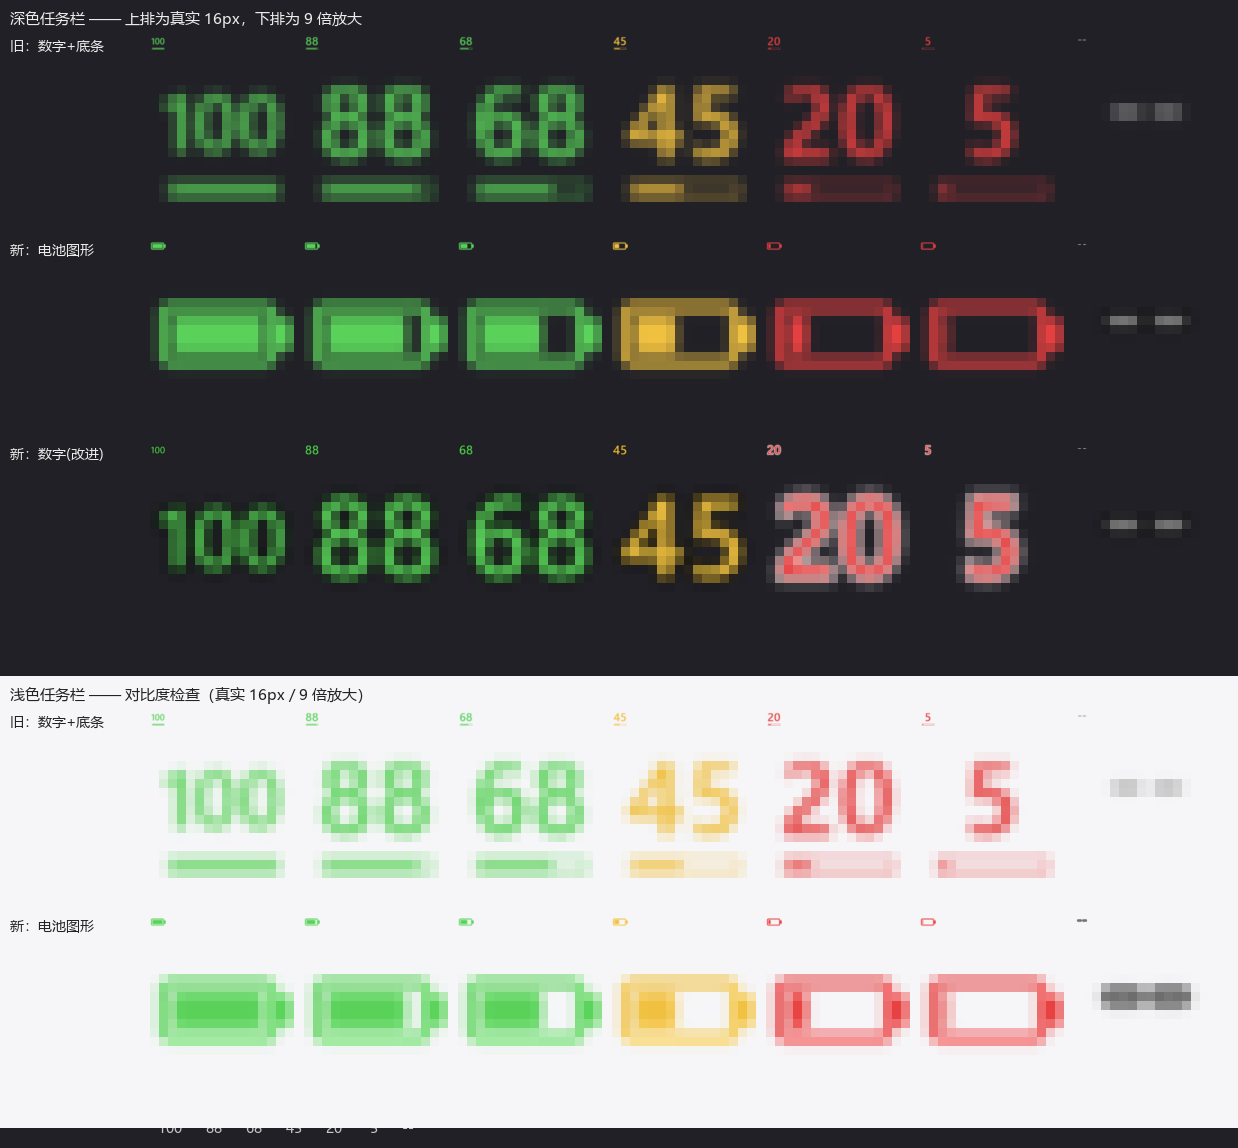
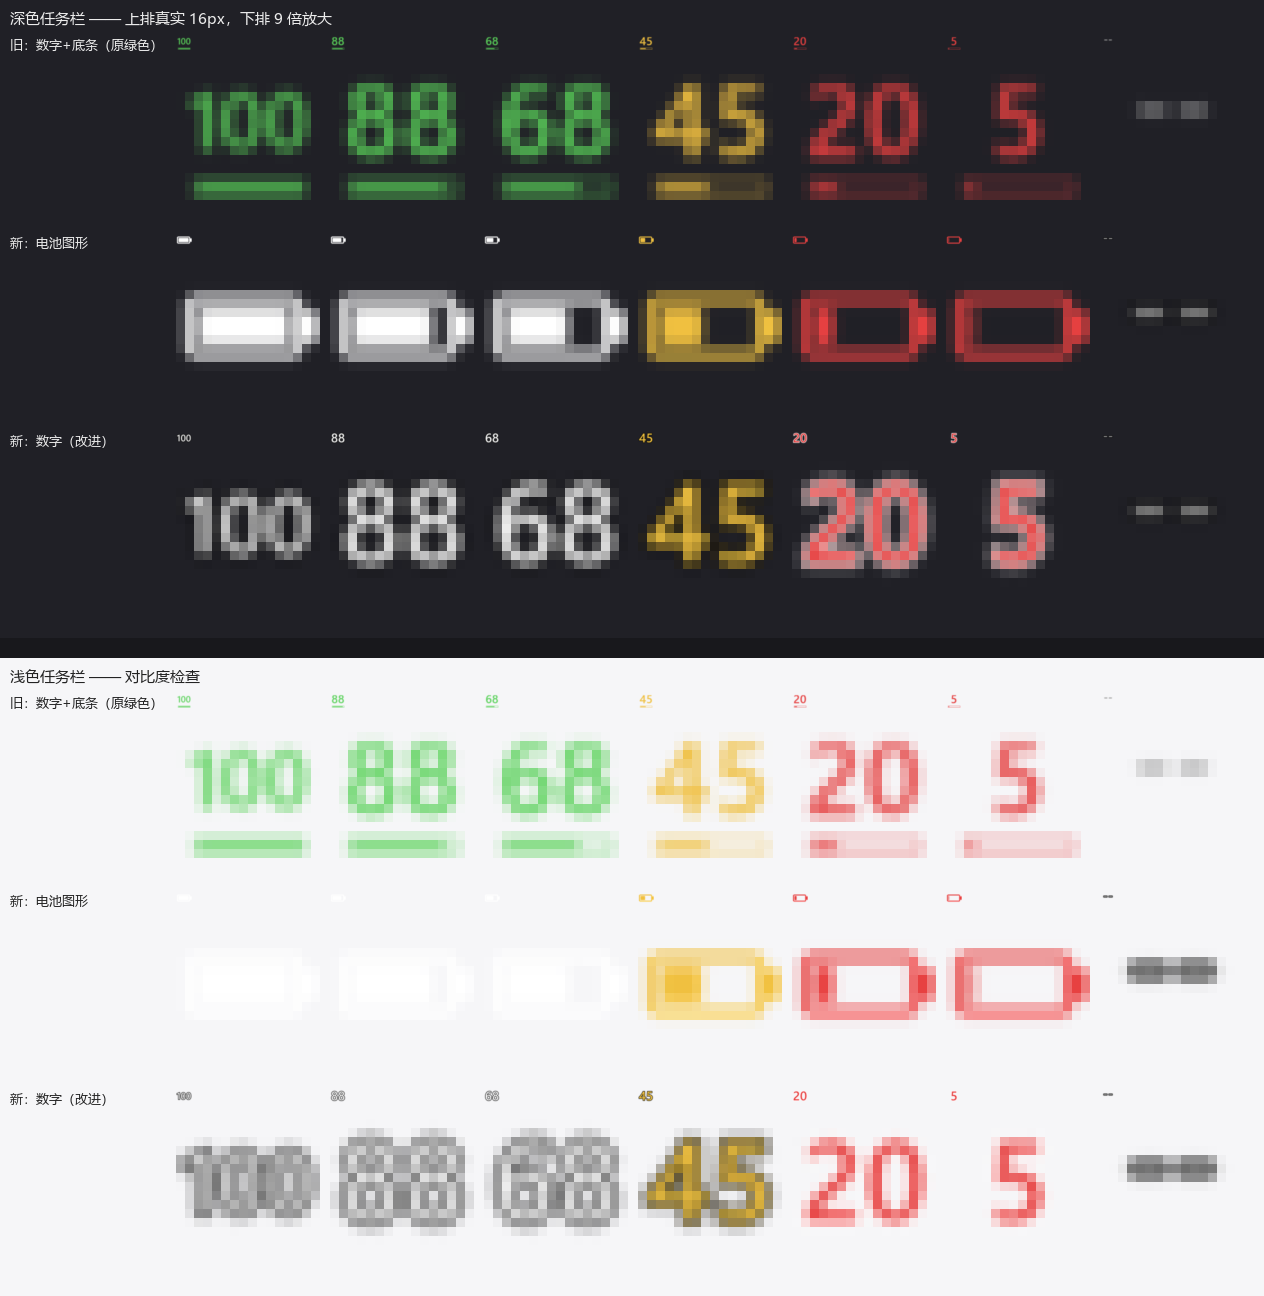
feat(ui): >50% 档由绿色改为白色，颜色只留给告警档
高位不再用绿色：正常电量用白色不抢注意力，21-50% 黄、<=20% 红不变。数字样式亮色会自动配黑描边所以浅色任务栏仍可读；电池图形无描边，在纯浅色任务栏上会几乎不可见（已在 README 记录，需要的话加一圈描边即可）。

diff --git a/main.py b/main.py
@@ -61,7 +61,7 @@ REQ = [0x06, 0x12, 0x00, 0x00, 0x01, 0x00, 0x00, 0x00,
        0x00, 0x00, 0x00, 0x00, 0x00, 0x00, 0x00, 0x00]
 POLL_SEC = 30        # 正常刷新间隔
 RETRY_SEC = 5        # 未连接时的探测间隔
-HIGH = (0x5A, 0xD2, 0x5A)    # >50% 绿
+HIGH = (0xFF, 0xFF, 0xFF)    # >50% 白：正常态不抢注意力，颜色只留给告警
 MID = (0xF0, 0xC0, 0x40)     # 21-50% 黄
 LOW = (0xE6, 0x40, 0x40)     # <=20% 红
 GONE = (0x99, 0x99, 0x99)

diff --git a/README.md b/README.md
@@ -108,6 +108,10 @@ pyinstaller --noconfirm --onedir --windowed --name SoraV3Battery \
 2. **内部 4 倍超采样，再用 LANCZOS 缩回 32**，边缘才干净。
 3. **字号按「一组候选串」拟合**，而不是按当前这一个串：两位数按最宽的 `"99"` 定字号，`"100"` 单独一档。否则电量每跳一格数字大小就变一次，看着很跳。
 
+配色：**>50% 白**（正常态不抢注意力，颜色只留给告警）、21–50% 黄、≤20% 红，未连接灰。
+
+> 已知取舍：白色在深色/中调任务栏上最干净，但**在纯浅色任务栏上电池图形会几乎不可见**。数字样式没这个问题——它会自动给亮色配黑色描边；电池图形没有描边。若要兼顾浅色任务栏，给 `_draw_battery` 的外壳加一圈对比色描边即可。
+
 样式由文件顶部的 `ICON_STYLE` 选择：`"battery"`（默认，电池图形）或 `"digits"`（直接画数字）。未连接时两种样式都退化成灰色 `--` —— 空电池会被误读成 0%。
 
 ![图标对比](icon_compare.png)
